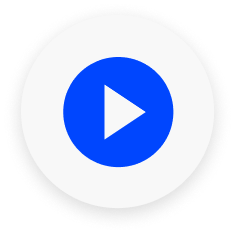
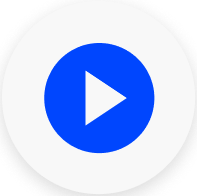
- Updated homepage | section five ( video )

diff --git a/resources/js/components/homepage/homepageVideo.vue b/resources/js/components/homepage/homepageVideo.vue
@@ -7,11 +7,8 @@
             </video>
 
             <div v-show="!videoOn" class="video-image-holder">
-                <img src="/images/homepage/video_preview.png" class="video image holder"/>
-
-                <a href="javascript:void(0)">
-                    <img src="/images/homepage/video_play_btn.png" @click="playIntroVideo" />
-                </a>
+                <img class="preview" src="/images/homepage/video_preview.png"/>
+                <img class="play-btn" src="/images/homepage/video_play_btn.png" @click="playIntroVideo" />
             </div>
         </div>
     </div>
@@ -38,16 +35,31 @@
     .homepage-video-wrapper{
         .video-preview{
             video{
-
+                width: 100%;
             }
 
             .video-image-holder{
-                img{
+                position: relative;
+                display: flex;
+                justify-content: center;
 
+                img.preview{
+                    border-radius: 20px;
+                    max-height: 900px;
                 }
-                a{
-                    img{
 
+                img.play-btn{
+                    position: absolute;
+                    display: flex;
+                    align-items: center;
+                    justify-content: center;
+                    margin: auto;
+                    left: 0;
+                    right: 0;
+                    top: 0;
+                    bottom: 0;
+                    &:hover{
+                        cursor: pointer;
                     }
                 }
             }

diff --git a/resources/sass/homepage/main.scss b/resources/sass/homepage/main.scss
@@ -212,6 +212,7 @@
               font-size: 26px;
               color: #FFFFFF;
               text-decoration: none;
+              letter-spacing: 0em;
 
               img{
                 margin-left: 14px;
